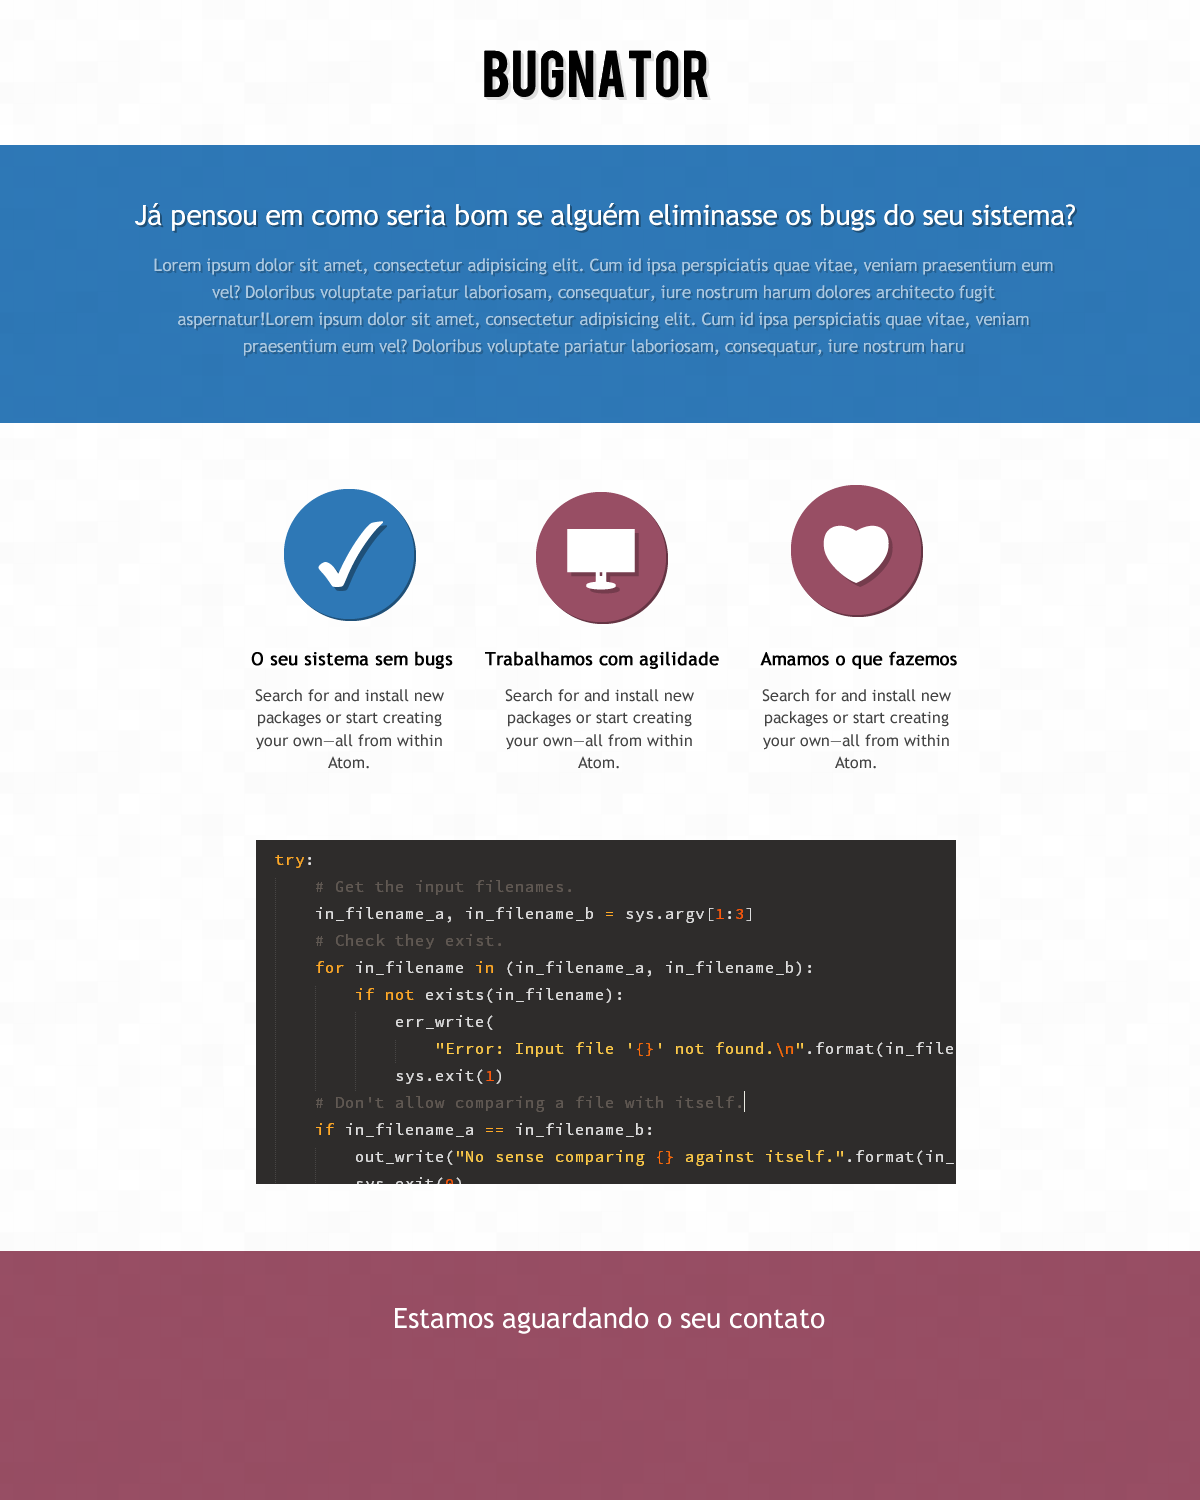
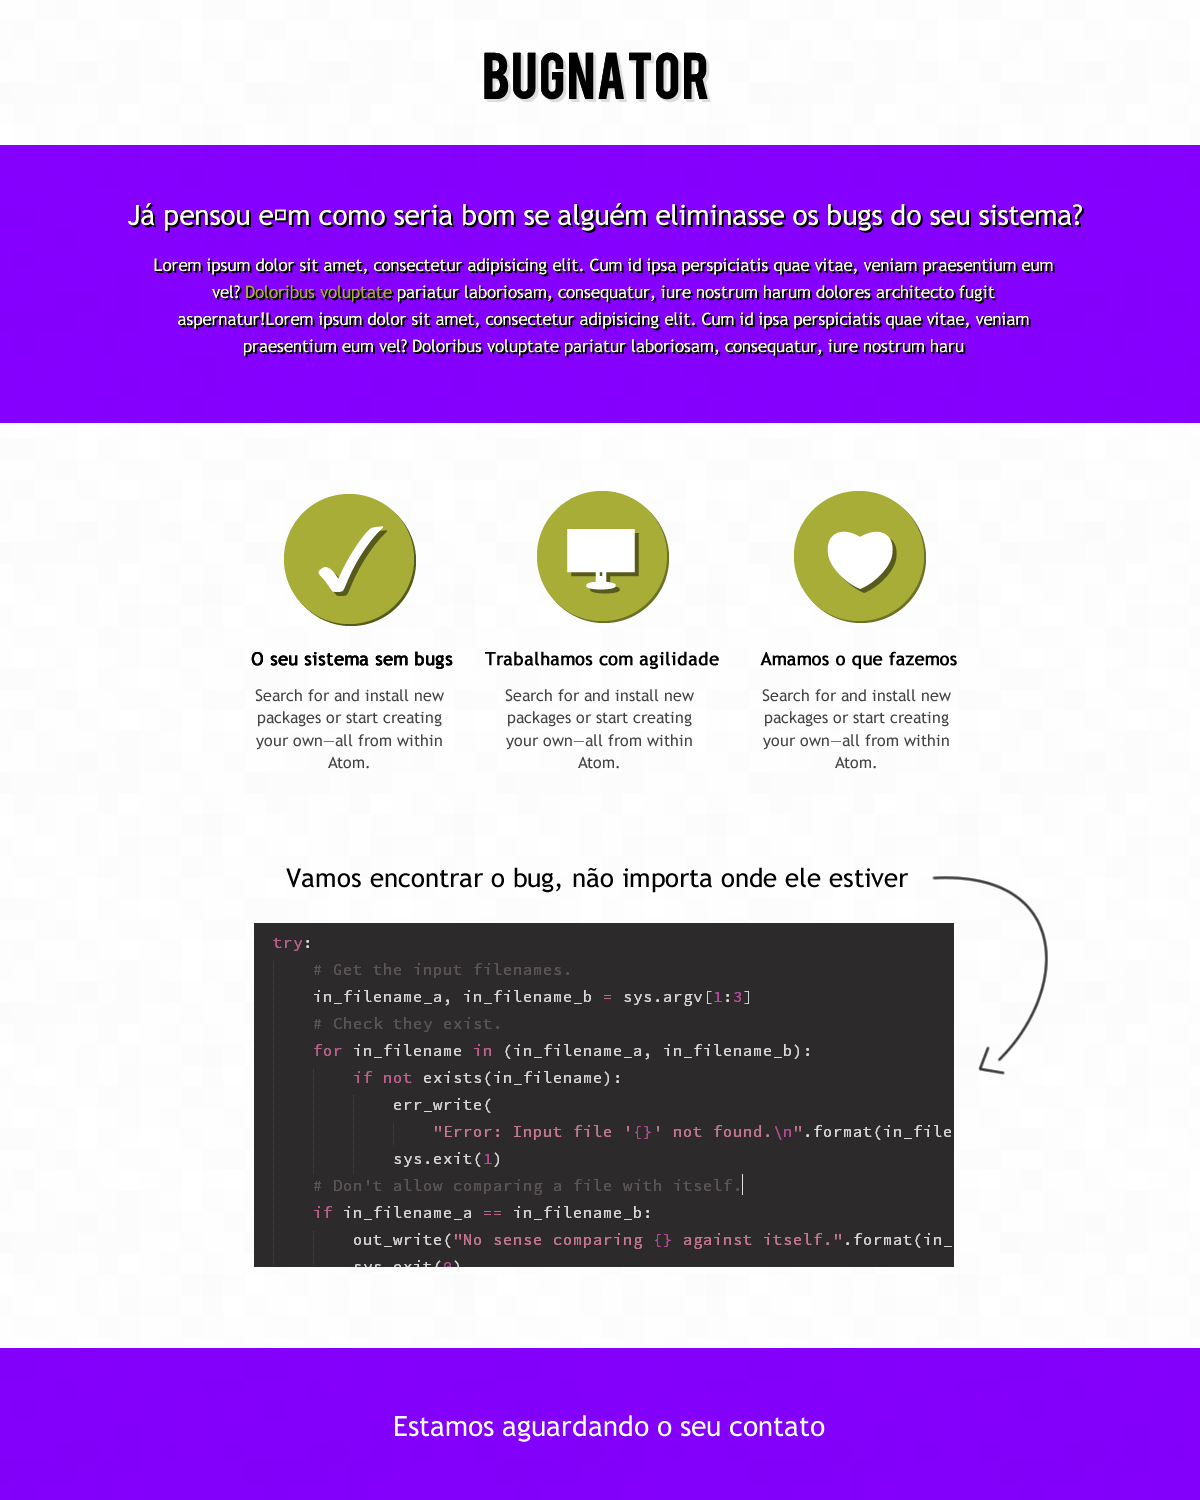
Layout changes (imcomplete)

diff --git a/index.html b/index.html
@@ -21,7 +21,9 @@
 			<div class="container">
 				<h2>Já pensou em como seria bom se alguém eliminasse os bugs do seu sistema?</h2>
 				<p>
-					Lorem ipsum dolor sit amet, consectetur adipisicing elit. Cum id ipsa perspiciatis quae vitae, veniam praesentium eum vel? Doloribus voluptate pariatur laboriosam, consequatur, iure nostrum harum dolores architecto fugit aspernatur!Lorem ipsum dolor sit amet, consectetur adipisicing elit. Cum id ipsa perspiciatis quae vitae, veniam praesentium eum vel? Doloribus voluptate pariatur laboriosam, consequatur, iure nostrum haru
+					Você tem um problema no seu sistema, mas não quer mobilizar uma agência ou uma soft-house para resolvê-lo?
+					<em>Nós estamos aqui para te ajudar.</em><br>
+					Podemos resolver o seu bug com rapidez e por um preço bem mais camarada do que grandes empresas.
 				</p>
 			</div>
 		</div>
@@ -33,7 +35,7 @@
 						<img src="assets/images/icon-check.png" alt="O seu sistema sem bugs">
 						<h3>O seu sistema sem bugs</h3>
 						<p>
-							Search for and install new packages or start creating your own—all from within Atom.
+							Nós vamos eliminar os seus bugs, não importa o quão difícil essa tarefa for.
 						</p>
 					</div>
 				</div>
@@ -43,7 +45,7 @@
 						<img src="assets/images/icon-monitor.png" alt="Trabalhamos com agilidade">
 						<h3>Trabalhamos com agilidade</h3>
 						<p>
-							Search for and install new packages or start creating your own—all from within Atom.
+							Vamos te manter atualizado sobre o andamento do nosso trabalho durante todo o processo.
 						</p>
 					</div>
 				</div>
@@ -53,13 +55,15 @@
 						<img src="assets/images/icon-heart.png" alt="Amamos o que fazemos">
 						<h3>Amamos o que fazemos</h3>
 						<p>
-							Search for and install new packages or start creating your own—all from within Atom.
+							Nós adoramos caçar e eliminar bugs, inclusive, é por isso que tivemos a ideia de criar a <b>Bugnator</b>.
 						</p>
 					</div>
 				</div>
 			</div>
 			
 			<div class="code">
+				<img src="assets/images/arrow.png" alt="Code">
+				<h3>Vamos encontrar o bug, não importa onde ele estiver</h3>
 				<img src="assets/images/code.png" alt="Code">
 			</div>
 		</div>

diff --git a/assets/styles/main.css b/assets/styles/main.css
@@ -17,9 +17,20 @@ header {
 	padding: 50px 0;
 	color: #fff;
 	text-shadow: 2px 2px #000;
-	font-size: 16px;
+	font-size: 20px;
 	font-weight: normal;
-	line-height: 28px;
+	line-height: 32px;
+}
+
+.bar p {
+	max-width: 800px;
+	margin: 0 auto;
+}
+
+.bar em {
+	font-weight: bold;
+	font-style: normal;
+	color: #24BFE9;
 }
 
 .bar h2 {
